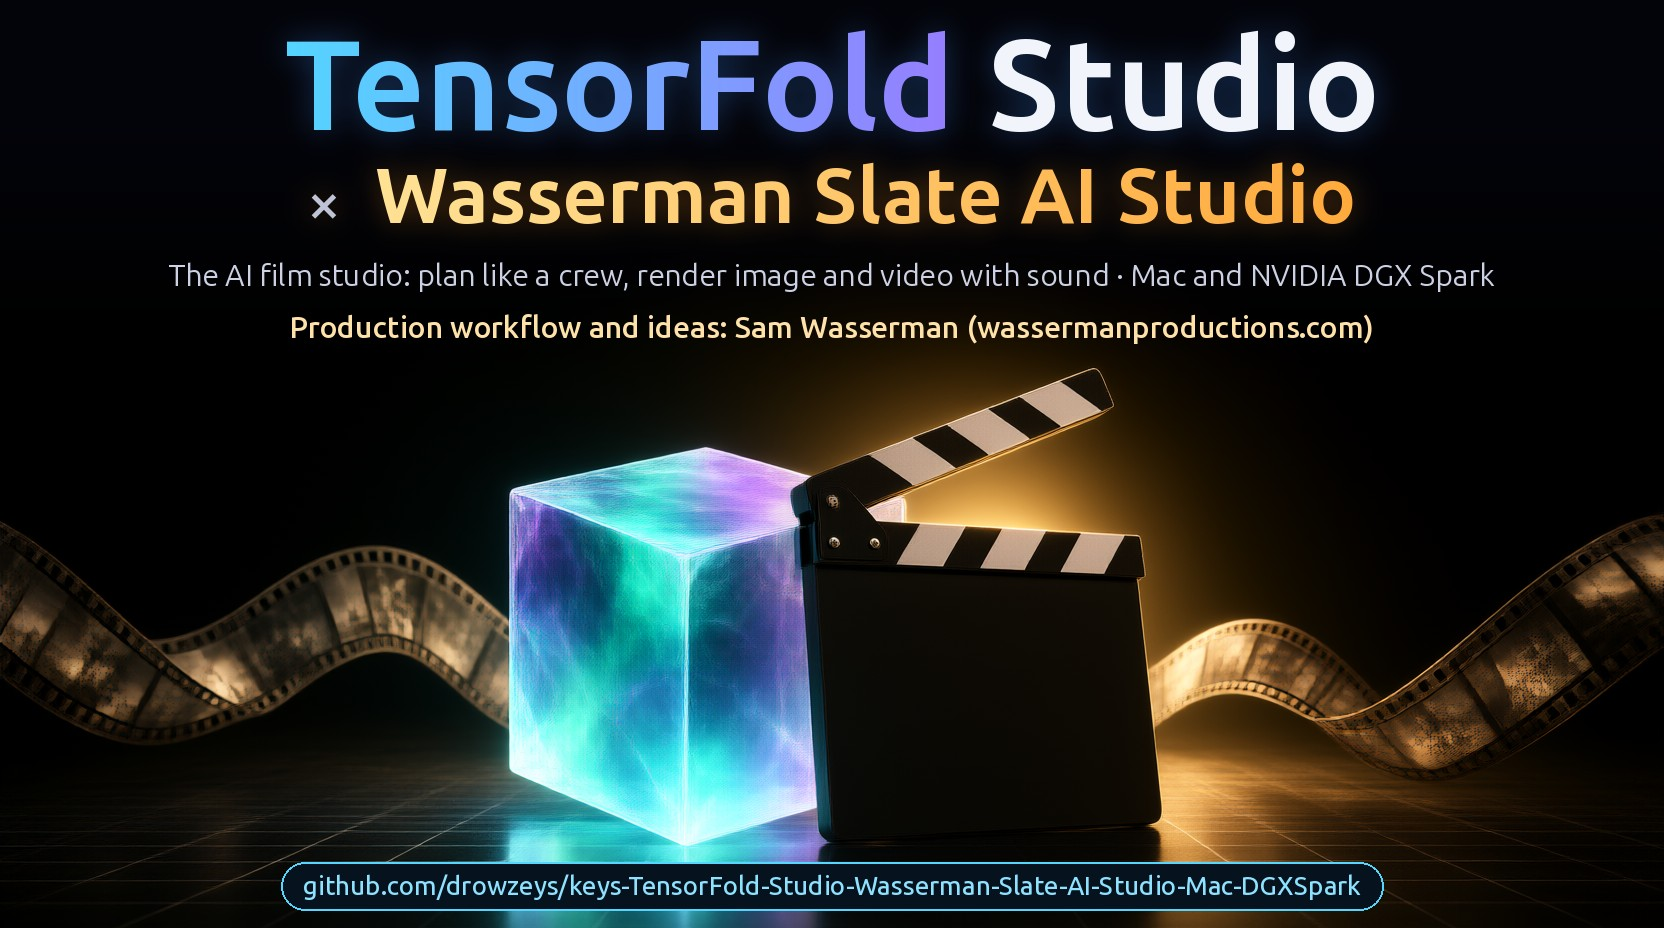
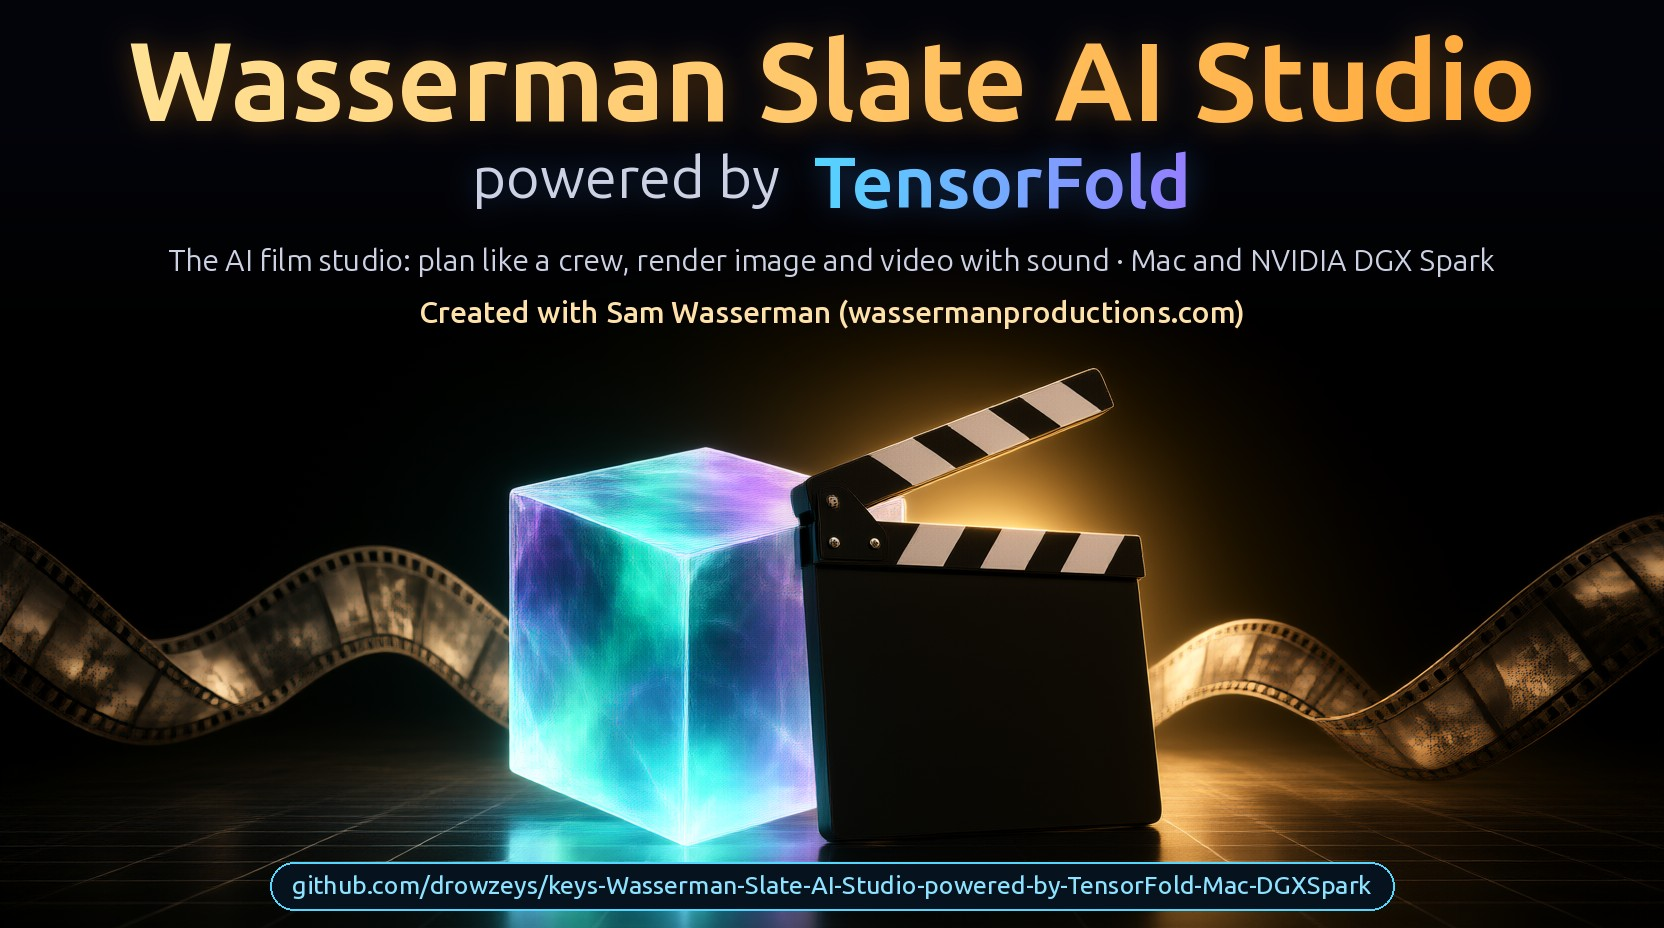
The app is named Wasserman Slate AI Studio, powered by TensorFold
At the TensorFold project's request the engine is credited as what powers the app, not as the app's name:
repository name, README title, banner, the page header and the Mac launcher.

Claude-Session: https://claude.ai/code/session_01CPyz4HarJ7ZubrPWPjtSdX

Changed region(s): [[0.0625, 0.0312, 0.9375, 0.375], [0.1562, 0.9375, 0.8438, 1.0]]

diff --git a/app/static/index.html b/app/static/index.html
@@ -3,7 +3,7 @@
 <head>
 <meta charset="utf-8">
 <meta name="viewport" content="width=device-width, initial-scale=1">
-<title>TensorFold Studio</title>
+<title>Wasserman Slate AI Studio · powered by TensorFold</title>
 <style>
 :root { --bg:#06070c; --panel:rgba(19,22,33,.74); --panel2:rgba(30,34,50,.66); --ink:#090a11; --line:rgba(255,255,255,.085); --line2:rgba(255,255,255,.16);
   --text:#eceef7; --dim:#8f96ad; --accent:#67e3ff; --accent2:#8f7dff; --hot:#ff7a45; --ok:#3ddc97; --warn:#f5c15c; --bad:#ff6b85;
@@ -109,6 +109,7 @@ a { color:var(--accent); text-decoration:none; } a:hover { text-decoration:under
 /* the active tab glows like low sun; Home goes back to step 1 of Create */
 .hub { margin:10px 0; } .hub .chips { margin:6px 0; } button.lora.on { background:rgba(255,196,84,.16); border-color:rgba(255,205,110,.8); color:#ffe9b8; box-shadow:0 0 12px rgba(255,186,60,.35); }
 .lorarow { align-items:flex-end; margin-top:6px; }
+header h1 small.by { font-size:11px; font-weight:500; color:var(--dim); letter-spacing:.04em; margin-left:6px; white-space:nowrap; }
 button.sharp { border-color:rgba(255,205,110,.55); color:#ffe9b8; white-space:nowrap; }
 button.sharp.on { background:rgba(255,196,84,.16); box-shadow:inset 0 0 0 1px rgba(255,205,110,.8),0 0 14px rgba(255,186,60,.45); }
 nav button.on { background:rgba(255,196,84,.14); color:#ffe9b8; box-shadow:inset 0 0 0 1px rgba(255,205,110,.8),0 0 16px rgba(255,186,60,.55),0 0 36px rgba(255,150,40,.3); text-shadow:0 0 10px rgba(255,200,90,.7); }
@@ -148,7 +149,7 @@ button.small.on { border-color:rgba(255,205,110,.8); color:#ffe9b8; background:r
 </head>
 <body>
 <header>
-  <span class="dot"></span><h1><b>TensorFold</b> Studio</h1><span id="plat" class="plat"></span>
+  <span class="dot"></span><h1><b>Wasserman Slate</b> AI Studio <small class="by">powered by TensorFold</small></h1><span id="plat" class="plat"></span>
   <button id="gohome" class="homebtn" title="Back to the first screen">⌂ Home</button>
   <nav id="tabs"></nav>
   <small id="ver"></small>
@@ -641,7 +642,7 @@ function viewTutorial() {
   const st = L.steps[T.step], last = T.step === L.steps.length - 1, mine = all.filter(l => l.track === L.track), after = all[all.indexOf(L) + 1];
   const open = (id, step = 0) => { T.id = id; T.step = step; T.coach = false; render(); };
   const done = all.filter(l => seen.has(l.id)).length;
-  return el("section", { class: "card" }, el("h2", {}, "How to use TensorFold Studio"),
+  return el("section", { class: "card" }, el("h2", {}, "How to use Wasserman Slate AI Studio"),
     el("div", { class: "note" }, "Short lessons for each tab. Read a step, press “Show me in the app” to be taken to the control it is about, and follow the bar at the bottom from there. " + done + " of " + all.length + " lessons done. ",
       done ? el("a", { href: "#", onclick: e => { e.preventDefault(); seen.clear(); try { localStorage.removeItem("tutorial-done"); } catch {} render(); } }, "Start over") : null),
     el("label", {}, "Which part of the app"), el("div", { class: "choice", role: "radiogroup" }, Object.entries(TRACKS).map(([name, sub]) => { const set = all.filter(l => l.track === name);
@@ -692,7 +693,7 @@ function render() { $("#tabs").replaceChildren(...TABS.map(t => el("button", { c
 (async () => { const want = decodeURIComponent(location.hash.slice(1)); if (TABS.includes(want)) tab = want;
   // links can preset the Create form: ?goes=image, ?engine=h3&res=720p&up=1&step=4 ...
   for (const [k, v] of new URLSearchParams(location.search)) if (k in C && k !== "mode") C[k] = k === "up" ? v === "1" : (k === "step" || k === "count" ? Number(v) : v);
-  S = await api("/api/state"); await loadLoras(); if (!S.turbo) C.engine = "fasth3"; sync(); $("#gohome").onclick = () => { tab = "Create"; C.step = 0; T.coach = false; history.replaceState(null, "", "#Create"); window.scrollTo(0, 0); render(); }; $("#plat").textContent = S.platform_label; $("#plat").className = "plat " + S.platform; document.title = "TensorFold Studio · " + (S.platform === "spark" ? "DGX Spark" : "Mac"); $("#ver").textContent = "pack " + S.version; $("#home").textContent = S.home; await poll(); render(); setInterval(poll, 2000); })();
+  S = await api("/api/state"); await loadLoras(); if (!S.turbo) C.engine = "fasth3"; sync(); $("#gohome").onclick = () => { tab = "Create"; C.step = 0; T.coach = false; history.replaceState(null, "", "#Create"); window.scrollTo(0, 0); render(); }; $("#plat").textContent = S.platform_label; $("#plat").className = "plat " + S.platform; document.title = "Wasserman Slate AI Studio · " + (S.platform === "spark" ? "DGX Spark" : "Mac"); $("#ver").textContent = "pack " + S.version; $("#home").textContent = S.home; await poll(); render(); setInterval(poll, 2000); })();
 </script>
 </body>
 </html>

diff --git a/app/static/slate.js b/app/static/slate.js
@@ -363,7 +363,7 @@ function slBible() { const p = SL.p, d = p.defaults, film = slFilm(), b = SL.bra
   return el("div", {}, el("div", { class: "row" }, field("Film", slIn(p, "name")), field("Logline", slIn(p, "logline", { placeholder: "One sentence: who wants what, and what stands in the way." }))),
     field("World and tone", slArea(p, "world", { style: "min-height:90px", placeholder: "Where and when this is, what it looks and feels like. Every prompt the brain writes is written inside this." })),
     el("h3", {}, "Defaults for new shots"), el("div", { class: "row" }, field("Aspect ratio", slPick(d, "aspectRatio", Object.fromEntries(SL_SPEC.aspectRatio.map(v => [v, v])))), field("Clip length", select(d, "durationSec", Object.fromEntries(Object.keys(S.durations).map(s => [s, s + " s"])), () => { d.durationSec = Number(d.durationSec); slSave(); })),
-      field("Target generator", el("input", { value: "MiniMax H3 · rendered here by TensorFold Studio", disabled: true }))),
+      field("Target generator", el("input", { value: "MiniMax H3 · rendered here, powered by TensorFold", disabled: true }))),
     el("h3", {}, "How this film renders"), el("div", { class: "row" }, field("Resolution", slPick(film, "res", { "480p": "480p tier · 864 × 480 at 16:9 (fast)", "720p": "720p tier · 1280 × 720 at 16:9", ...(S.sharp ? { sharp: "Wasserman Sharp Spec · 1376 × 768, 16:9 only" } : {}) })), field("Quality", slPick(film, "quality", S.qualities)),
       S.sharp ? sharpButton(film.res === "sharp" && film.quality === S.sharp.quality, () => { film.res = "sharp"; film.quality = S.sharp.quality; d.aspectRatio = "16:9"; if (!S.sharp.seconds.includes(Number(d.durationSec))) d.durationSec = S.sharp.seconds[0];
         for (const sc of SL.p.scenes) for (const sh of sc.shots) { slTf(sh).seed = S.sharp.seed; sh.spec.aspectRatio = "16:9"; if (!S.sharp.seconds.includes(Number(sh.spec.durationSec))) sh.spec.durationSec = S.sharp.seconds[0]; } slSave(); slDraw(); }) : null,

diff --git a/app/server.py b/app/server.py
@@ -137,7 +137,7 @@ def machine() -> tuple[str, str]:
     return "mac", "MAC · APPLE SILICON MX · H3-METAL"
 
 
-app = FastAPI(title="TensorFold Studio")
+app = FastAPI(title="Wasserman Slate AI Studio, powered by TensorFold")
 jobs: dict[str, dict] = {}
 order: list[str] = []
 lock = threading.Lock()

diff --git a/README.md b/README.md
@@ -1,12 +1,14 @@
-# keys-TensorFold Studio × Wasserman Slate AI Studio (Mac + DGX Spark)
+# Wasserman Slate AI Studio, powered by TensorFold (Mac + DGX Spark)
 
 **An AI film studio on your own machine: plan a film the way a crew does in the Wasserman Slate AI Studio, and render
 it here. Qwen-Image-2.1-Turbo images and MiniMax H3 / FastH3 video with sound, on TensorFold: Apple-silicon Macs
 (Metal) and the NVIDIA DGX Spark (CUDA).**
 
-[![TensorFold Studio with the Wasserman Slate AI Studio: an AI film studio for Mac and NVIDIA DGX Spark](samples/banner.jpg)](https://github.com/drowzeys/keys-TensorFold-Studio-Wasserman-Slate-AI-Studio-Mac-DGXSpark)
+[![Wasserman Slate AI Studio, powered by TensorFold: an AI film studio for Mac and NVIDIA DGX Spark](samples/banner.jpg)](https://github.com/drowzeys/keys-Wasserman-Slate-AI-Studio-powered-by-TensorFold-Mac-DGXSpark)
 
 *Banner art made with this studio's own Qwen-Image-2.1 step (1664x928, seed 25); the lettering was set afterwards.*
+
+*Named at the request of the TensorFold project: this is an app built on TensorFold, not a TensorFold product.*
 
 ## Big credit: Sam Wasserman (wassermanproductions.com)
 
@@ -115,7 +117,7 @@ badge, or a purple `MAC · APPLE SILICON MX · H3-METAL`.
 the Qwen team for Qwen-Image-2.1-Turbo, and the ComfyUI team for the runtime this build stands on.
 
 ```bash
-git clone https://github.com/drowzeys/keys-TensorFold-Studio-Wasserman-Slate-AI-Studio-Mac-DGXSpark.git && cd keys-TensorFold-Studio-Wasserman-Slate-AI-Studio-Mac-DGXSpark
+git clone https://github.com/drowzeys/keys-Wasserman-Slate-AI-Studio-powered-by-TensorFold-Mac-DGXSpark.git && cd keys-Wasserman-Slate-AI-Studio-powered-by-TensorFold-Mac-DGXSpark
 sudo apt install -y git ffmpeg
 bash oneshot-setup.sh            # the same command as on a Mac: on Linux it runs oneshot-setup-spark.sh
                                  # 99 GB of models, the engine build, a test image and a 5 second test clip
@@ -332,8 +334,8 @@ megabytes. On an M1 to M4 the setup also writes the 8-bit FastH3 weights (37 GB)
 
 ```bash
 brew install python@3.11 uv ffmpeg
-git clone https://github.com/drowzeys/keys-TensorFold-Studio-Wasserman-Slate-AI-Studio-Mac-DGXSpark.git
-cd keys-TensorFold-Studio-Wasserman-Slate-AI-Studio-Mac-DGXSpark
+git clone https://github.com/drowzeys/keys-Wasserman-Slate-AI-Studio-powered-by-TensorFold-Mac-DGXSpark.git
+cd keys-Wasserman-Slate-AI-Studio-powered-by-TensorFold-Mac-DGXSpark
 bash oneshot-setup.sh --app             # engine, image model, FastH3, 2x decoder, the app; ends with a test clip
 bash oneshot-setup.sh --turbo --app     # the same plus MiniMax H3 Turbo (64 GB more on disk, 128 GB of memory)
 bash oneshot-setup.sh --ref2va --app    # the same plus reference pictures to video (64 GB more on disk, 128 GB of memory)
@@ -341,18 +343,18 @@ bash oneshot-setup.sh --ref2va --app    # the same plus reference pictures to vi
 
 **Step-by-step tutorial with screenshots: [TUTORIAL.md](TUTORIAL.md).**
 
-Then **double-click TensorFold Studio** on the Desktop or in `~/Applications` (drag it to the Dock if you like). `bash scripts/make-app.sh` rebuilds the app on its own. It starts the studio
+Then **double-click Wasserman Slate AI Studio** on the Desktop or in `~/Applications` (drag it to the Dock if you like). `bash scripts/make-app.sh` rebuilds the app on its own. It starts the studio
 if it is not running and opens it in your browser; double-click again to come back to it. Without the app:
 `bash scripts/app.sh`, then open http://127.0.0.1:7870.
 
 **Or hand it to your coding agent.** Paste this:
 
-> Clone https://github.com/drowzeys/keys-TensorFold-Studio-Wasserman-Slate-AI-Studio-Mac-DGXSpark and follow its AGENTS.md section "Install for a
+> Clone https://github.com/drowzeys/keys-Wasserman-Slate-AI-Studio-powered-by-TensorFold-Mac-DGXSpark and follow its AGENTS.md section "Install for a
 > person and build the one-click app". Tell me before any large download starts and when the app is ready.
 
 `--turbo` adds MiniMax H3's own transformer and its Turbo adapter, and with them a second engine card in the app;
 `--image-only` installs the image model alone (33 GB). An install made before 2.1 keeps Turbo. The app keeps the clone where it is: rebuild it with `make-app.sh` if you move the folder. To
-stop the server: `"$HOME/Applications/TensorFold Studio.app/Contents/MacOS/TensorFoldStudio" stop`. There is **no
+stop the server: `"$HOME/Applications/Wasserman Slate AI Studio.app/Contents/MacOS/TensorFoldStudio" stop`. There is **no
 login**, and by default it listens on this Mac only; `HOST=0.0.0.0 bash scripts/make-app.sh` opens it to your
 network, which you should do only on a network you trust.
 
@@ -762,8 +764,8 @@ gives the same scene with a different rendering.
 ## One-shot
 
 ```bash
-git clone https://github.com/drowzeys/keys-TensorFold-Studio-Wasserman-Slate-AI-Studio-Mac-DGXSpark.git
-cd keys-TensorFold-Studio-Wasserman-Slate-AI-Studio-Mac-DGXSpark
+git clone https://github.com/drowzeys/keys-Wasserman-Slate-AI-Studio-powered-by-TensorFold-Mac-DGXSpark.git
+cd keys-Wasserman-Slate-AI-Studio-powered-by-TensorFold-Mac-DGXSpark
 brew install python@3.11 uv ffmpeg
 bash oneshot-setup.sh               # both models and the 2x decoder: 182 GB of weights
 bash oneshot-setup.sh --image-only  # or just Qwen-Image-2.1: 33 GB
@@ -774,7 +776,7 @@ bash oneshot-setup.sh --image-only  # or just Qwen-Image-2.1: 33 GB
 1. Gets TensorFold 0.6.5 with the H3 and Qwen-Image families (`drowzeys/TensorFold` at `a2068c03`), from the **GHCR
    prebuilt carrier** when Docker is available (checksums verified), otherwise from git at the same commit.
    The native FastH3 engine (`tf-h3-dit`) comes from the same carrier, or without Docker as a checksummed download
-   from the [v2.0 release](https://github.com/drowzeys/keys-TensorFold-Studio-Wasserman-Slate-AI-Studio-Mac-DGXSpark/releases/tag/v2.0); no Zig toolchain is needed.
+   from the [v2.0 release](https://github.com/drowzeys/keys-Wasserman-Slate-AI-Studio-powered-by-TensorFold-Mac-DGXSpark/releases/tag/v2.0); no Zig toolchain is needed.
 2. Installs it with mflux at `add5164e` and the dependency lock ([`requirements.lock`](requirements.lock): mlx 0.32.3,
    mlx-lm 0.32.0, mlx-vlm 0.7.4, …) into its own venv at `~/.local/opt/tensorfold-studio`.
 3. Downloads `Qwen/Qwen-Image-2.1-Turbo` (33 GB) to `~/qwen-models/Qwen-Image-2.1-Turbo`. Where an earlier install's

diff --git a/AGENTS.md b/AGENTS.md
@@ -1,12 +1,12 @@
-# Agent one-shot — TensorFold Studio: Qwen-Image-2.1 + MiniMax H3 (MLX, Apple Silicon)
+# Agent one-shot — Wasserman Slate AI Studio, powered by TensorFold: Qwen-Image-2.1 + MiniMax H3 (MLX, Apple Silicon)
 
-**Repo:** https://github.com/drowzeys/keys-TensorFold-Studio-Wasserman-Slate-AI-Studio-Mac-DGXSpark  
+**Repo:** https://github.com/drowzeys/keys-Wasserman-Slate-AI-Studio-powered-by-TensorFold-Mac-DGXSpark  
 **Carrier image:** `ghcr.io/drowzeys/keys-tensorfold-studio:2.5` (one for both builds, not a runtime; for a Mac the TensorFold wheel + lock + render scripts + the native FastH3 engine, for a DGX Spark the prebuilt CUDA engine)  
 **Engine:** TensorFold 0.6.5 + H3 and Qwen-Image families @ `drowzeys/TensorFold` `a2068c03`, own venv, int8 tensor-unit kernels
 
 ```bash
-git clone https://github.com/drowzeys/keys-TensorFold-Studio-Wasserman-Slate-AI-Studio-Mac-DGXSpark.git
-cd keys-TensorFold-Studio-Wasserman-Slate-AI-Studio-Mac-DGXSpark
+git clone https://github.com/drowzeys/keys-Wasserman-Slate-AI-Studio-powered-by-TensorFold-Mac-DGXSpark.git
+cd keys-Wasserman-Slate-AI-Studio-powered-by-TensorFold-Mac-DGXSpark
 brew install python@3.11 uv ffmpeg
 bash oneshot-setup.sh               # image model, FastH3 and its text encoder and decoders (175 GB) and a test clip; --image-only for 33 GB; --turbo adds MiniMax H3 Turbo (64 GB more, 128 GB of memory); --ref2va adds reference pictures to video (64 GB more, 128 GB)
 bash scripts/studio.sh "the picture" "what happens in the clip" out.mp4   # text -> image -> video with sound
@@ -34,11 +34,11 @@ Do these in order on the person's Mac, and report each result plainly.
    non-commercial), MiniMax H3 text encoder and decoders 72 GB (MiniMax H3 Community License, territory limits; 134 GB with `--turbo`), FastH3 65 GB (same license).
 4. `bash oneshot-setup.sh --app` (add `--turbo` only if they ask for MiniMax H3 Turbo and have 128 GB; `--app` does step 5 with a Desktop shortcut). It resumes if interrupted. It ends by
    rendering `outputs/test.mp4`; confirm that file exists and plays.
-5. `bash scripts/make-app.sh` builds `~/Applications/TensorFold Studio.app`. If the models are not in the default
+5. `bash scripts/make-app.sh` builds `~/Applications/Wasserman Slate AI Studio.app`. If the models are not in the default
    folders, export `QWEN_MODEL_DIR`, `H3_MODEL_DIR`, `FASTH3_DIR` first: the app records them. Do not set
    `HOST=0.0.0.0` unless the person asks to reach it from other machines; there is no login.
-6. `open "$HOME/Applications/TensorFold Studio.app"`, then check `curl -s http://127.0.0.1:7870/api/state` answers.
-7. Tell the person: double-click TensorFold Studio in Applications; renders land in `~/TensorFoldStudio`; the log is
+6. `open "$HOME/Applications/Wasserman Slate AI Studio.app"`, then check `curl -s http://127.0.0.1:7870/api/state` answers.
+7. Tell the person: double-click Wasserman Slate AI Studio in Applications; renders land in `~/TensorFoldStudio`; the log is
    `~/Library/Logs/TensorFoldStudio.log`; to stop it run the app's executable with `stop`.
 
 The app is a launcher around this clone, unsigned and built locally, so Gatekeeper does not block it. Do not move

diff --git a/TUTORIAL.md b/TUTORIAL.md
@@ -1,4 +1,4 @@
-# TensorFold Studio: install it, click it, make things
+# Wasserman Slate AI Studio, powered by TensorFold: install it, click it, make things
 
 **Thank you first** to the Qwen team (Qwen-Image-2.1), MiniMax (H3), FastVideo / Hao AI Lab (FastH3), Ash Hart
 (TensorFold), mrbizarro, LightX2V, Viggle, speach1sdef178 and Apple's MLX team. Full list in [CREDITS.md](CREDITS.md).
@@ -21,8 +21,8 @@ Everything here was measured on one machine: a Mac Studio M5 Ultra with 256 GB.
 
 ```bash
 brew install python@3.11 uv ffmpeg
-git clone https://github.com/drowzeys/keys-TensorFold-Studio-Wasserman-Slate-AI-Studio-Mac-DGXSpark.git
-cd keys-TensorFold-Studio-Wasserman-Slate-AI-Studio-Mac-DGXSpark
+git clone https://github.com/drowzeys/keys-Wasserman-Slate-AI-Studio-powered-by-TensorFold-Mac-DGXSpark.git
+cd keys-Wasserman-Slate-AI-Studio-powered-by-TensorFold-Mac-DGXSpark
 bash oneshot-setup.sh --app
 ```
 
@@ -42,7 +42,7 @@ MiniMax H3 Community License. The script prints the links before each download.
 
 **Prefer to let an agent do it?** Give Claude Code (or another coding agent) this:
 
-> Clone https://github.com/drowzeys/keys-TensorFold-Studio-Wasserman-Slate-AI-Studio-Mac-DGXSpark and follow its AGENTS.md section "Install for a
+> Clone https://github.com/drowzeys/keys-Wasserman-Slate-AI-Studio-powered-by-TensorFold-Mac-DGXSpark and follow its AGENTS.md section "Install for a
 > person and build the one-click app". Tell me before any large download starts and when the app is ready.
 
 ## 3. The clickable app
@@ -50,15 +50,15 @@ MiniMax H3 Community License. The script prints the links before each download.
 `--app` already built it. To build or rebuild it yourself:
 
 ```bash
-bash scripts/make-app.sh                # ~/Applications/TensorFold Studio.app
+bash scripts/make-app.sh                # ~/Applications/Wasserman Slate AI Studio.app
 DESKTOP=1 bash scripts/make-app.sh      # and a shortcut on the Desktop
 ```
 
-Double-click **TensorFold Studio**. It starts the studio if needed and opens it in your browser; double-click again
+Double-click **Wasserman Slate AI Studio**. It starts the studio if needed and opens it in your browser; double-click again
 any time to come back. Drag it to the Dock to keep it there.
 
 - It is a small launcher around the folder you cloned. If you move that folder, run `make-app.sh` again.
-- Stop it: `"$HOME/Applications/TensorFold Studio.app/Contents/MacOS/TensorFoldStudio" stop`
+- Stop it: `"$HOME/Applications/Wasserman Slate AI Studio.app/Contents/MacOS/TensorFoldStudio" stop`
 - Log: `~/Library/Logs/TensorFoldStudio.log`. Everything you make: `~/TensorFoldStudio`.
 - It listens on this Mac only, and has no login. `HOST=0.0.0.0 bash scripts/make-app.sh` opens it to your network;
   do that only on a network you trust.
